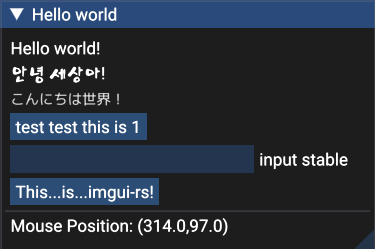
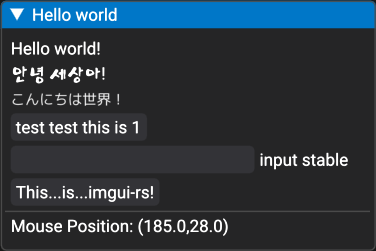
apply dark theme

diff --git a/src/main.rs b/src/main.rs
@@ -4,8 +4,89 @@ use imgui::*;
 
 mod support;
 
+macro_rules! rgb {
+    ($r:expr, $g:expr, $b:expr) => {[ $r as f32 / 255f32, $g as f32 / 255f32, $b as f32 / 255f32, 1.0 ]};
+}
+
+#[allow(unused_macros)]
+macro_rules! rgba {
+    ($r:expr, $g:expr, $b:expr, $a:expr) => {[ $r as f32 / 255f32, $g as f32 / 255f32, $b as f32 / 255f32, $a as f32 ]};
+}
+
 fn main() {
-    let system = support::init(env!("CARGO_PKG_NAME"));
+    let bgcolor = rgb!(37, 37, 38);
+    let light_bgcolor = rgb!(82, 82, 85);
+    let verylight_bgcolor = rgb!(100, 100, 105);
+    let hilight_bgcolor = rgb!(128, 128, 135);
+
+    let panel_color = rgb!(51, 51, 55);
+    let panel_hover_color = rgb!(68, 68, 68); //rgb!(29, 151, 236);
+    let panel_active_color = rgb!(54, 54, 54); //rgb!(0, 119, 200);
+    let blue_active_color = rgb!(0, 119, 200);
+    let blue_hover_color = rgb!(29, 151, 236);
+
+    let text_color = rgb!(255, 255, 255);
+    let text_disabled_color = rgb!(151, 151, 151);
+    let border_color = rgb!(78, 78, 78);
+
+    let mut system = support::init(env!("CARGO_PKG_NAME"),
+        1024, 768, support::SystemColor::from_rgb(24, 24, 24));
+
+    let style = system.imgui.style_mut();
+
+    style.window_border_size = 1.0;
+    style.window_rounding = 4.0;
+    style.frame_rounding = 4.0;
+    style.popup_border_size = 1.0;
+    style.popup_rounding = 4.0;
+
+    style.colors[StyleColor::Text as usize] = text_color;
+    style.colors[StyleColor::TextDisabled as usize] = text_disabled_color;
+    style.colors[StyleColor::TextSelectedBg as usize] = panel_active_color;
+    style.colors[StyleColor::WindowBg as usize] = bgcolor;
+    style.colors[StyleColor::ChildBg as usize] = bgcolor;
+    style.colors[StyleColor::PopupBg as usize] = bgcolor;
+    style.colors[StyleColor::Border as usize] = border_color;
+    style.colors[StyleColor::BorderShadow as usize] = border_color;
+    style.colors[StyleColor::FrameBg as usize] = panel_color;
+    style.colors[StyleColor::FrameBgHovered as usize] = panel_hover_color;
+    style.colors[StyleColor::FrameBgActive as usize] = light_bgcolor;// panelActiveColor;
+    style.colors[StyleColor::TitleBg as usize] = bgcolor;
+    style.colors[StyleColor::TitleBgActive as usize] = blue_active_color;// bgColor;
+    style.colors[StyleColor::TitleBgCollapsed as usize] = bgcolor;
+    style.colors[StyleColor::MenuBarBg as usize] = panel_color;
+    style.colors[StyleColor::ScrollbarBg as usize] = panel_color;
+    style.colors[StyleColor::ScrollbarGrab as usize] = light_bgcolor;
+    style.colors[StyleColor::ScrollbarGrabHovered as usize] = verylight_bgcolor;
+    style.colors[StyleColor::ScrollbarGrabActive as usize] = hilight_bgcolor;
+    style.colors[StyleColor::CheckMark as usize] = blue_active_color;// panelActiveColor;
+    style.colors[StyleColor::SliderGrab as usize] = blue_active_color;// panelHoverColor;
+    style.colors[StyleColor::SliderGrabActive as usize] = blue_hover_color;
+    style.colors[StyleColor::Button as usize] = panel_color;
+    style.colors[StyleColor::ButtonHovered as usize] = panel_hover_color;
+    style.colors[StyleColor::ButtonActive as usize] = blue_active_color;// panelHoverColor;
+    style.colors[StyleColor::Header as usize] = panel_active_color;// panelColor;
+    style.colors[StyleColor::HeaderHovered as usize] = panel_hover_color;
+    style.colors[StyleColor::HeaderActive as usize] = blue_active_color;// panelActiveColor;
+    style.colors[StyleColor::Separator as usize] = border_color;
+    style.colors[StyleColor::SeparatorHovered as usize] = border_color;
+    style.colors[StyleColor::SeparatorActive as usize] = border_color;
+    style.colors[StyleColor::ResizeGrip as usize] = bgcolor;
+    style.colors[StyleColor::ResizeGripHovered as usize] = panel_color;
+    style.colors[StyleColor::ResizeGripActive as usize] = light_bgcolor;
+    style.colors[StyleColor::PlotLines as usize] = blue_active_color;// panelActiveColor;
+    style.colors[StyleColor::PlotLinesHovered as usize] = blue_hover_color;// panelHoverColor;
+    style.colors[StyleColor::PlotHistogram as usize] = blue_active_color;// panelActiveColor;
+    style.colors[StyleColor::PlotHistogramHovered as usize] = blue_hover_color;// panelHoverColor;
+    style.colors[StyleColor::ModalWindowDimBg as usize] = bgcolor;
+    style.colors[StyleColor::DragDropTarget as usize] = bgcolor;
+    style.colors[StyleColor::NavHighlight as usize] = bgcolor;
+    //colors[StyleColor::l_DockingPreview as usize] = panel_active_color;
+    style.colors[StyleColor::Tab as usize] = bgcolor;
+    style.colors[StyleColor::TabActive as usize] = panel_active_color;
+    style.colors[StyleColor::TabUnfocused as usize] = bgcolor;
+    style.colors[StyleColor::TabUnfocusedActive as usize] = panel_active_color;
+    style.colors[StyleColor::TabHovered as usize] = panel_hover_color;
 
     let mut value = 0;
     let choices = ["test test this is 1", "test test this is 2"];

diff --git a/src/support/mod.rs b/src/support/mod.rs
@@ -18,9 +18,30 @@ pub struct System {
     pub platform: WinitPlatform,
     pub renderer: Renderer,
     pub font_size: f32,
+    pub background: SystemColor,
 }
 
-pub fn init(title: &str) -> System {
+// Only really needed to send a background color to init()
+pub struct SystemColor {
+    pub red: f32,
+    pub green: f32,
+    pub blue: f32,
+    pub alpha: f32,
+}
+
+#[allow(dead_code)]
+impl SystemColor {
+    pub fn from_rgb(r: u8, g: u8, b: u8) -> SystemColor {
+        SystemColor { 
+            red: r as f32 / 255f32,
+            green: g as f32 / 255f32,
+            blue: b as f32 / 255f32,
+            alpha: 1.0,
+        }
+    }
+}
+
+pub fn init(title: &str, width: i32, height: i32, bgcolor: SystemColor) -> System {
     let title = match Path::new(&title).file_name() {
         Some(file_name) => file_name.to_str().unwrap(),
         None => title,
@@ -29,9 +50,8 @@ pub fn init(title: &str) -> System {
     let context = glutin::ContextBuilder::new().with_vsync(true);
     let builder = WindowBuilder::new()
         .with_title(title.to_owned())
-        .with_inner_size(glutin::dpi::LogicalSize::new(1024f64, 768f64));
-    let display =
-        Display::new(builder, context, &event_loop).expect("Failed to initialize display");
+        .with_inner_size(glutin::dpi::LogicalSize::new(width, height));
+    let display = Display::new(builder, context, &event_loop).expect("Failed to initialize display");
 
     let mut imgui = Context::create();
     imgui.set_ini_filename(None);
@@ -127,6 +147,7 @@ pub fn init(title: &str) -> System {
         platform,
         renderer,
         font_size,
+        background: bgcolor,
     }
 }
 
@@ -138,6 +159,7 @@ impl System {
             mut imgui,
             mut platform,
             mut renderer,
+            background,
             ..
         } = self;
         let mut last_frame = Instant::now();
@@ -166,7 +188,7 @@ impl System {
 
                 let gl_window = display.gl_window();
                 let mut target = display.draw();
-                target.clear_color_srgb(1.0, 1.0, 1.0, 1.0);
+                target.clear_color(background.red, background.green, background.blue, background.alpha);
                 platform.prepare_render(ui, gl_window.window());
                 let draw_data = imgui.render();
                 renderer
